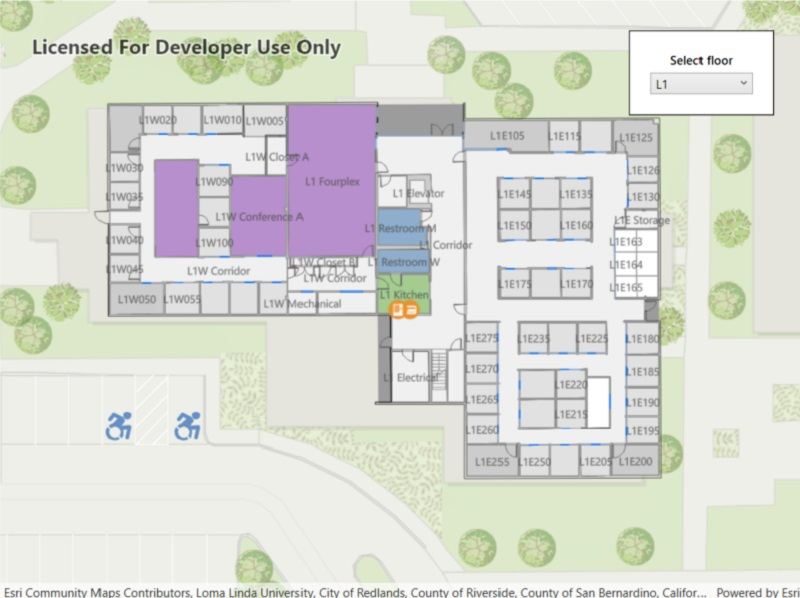
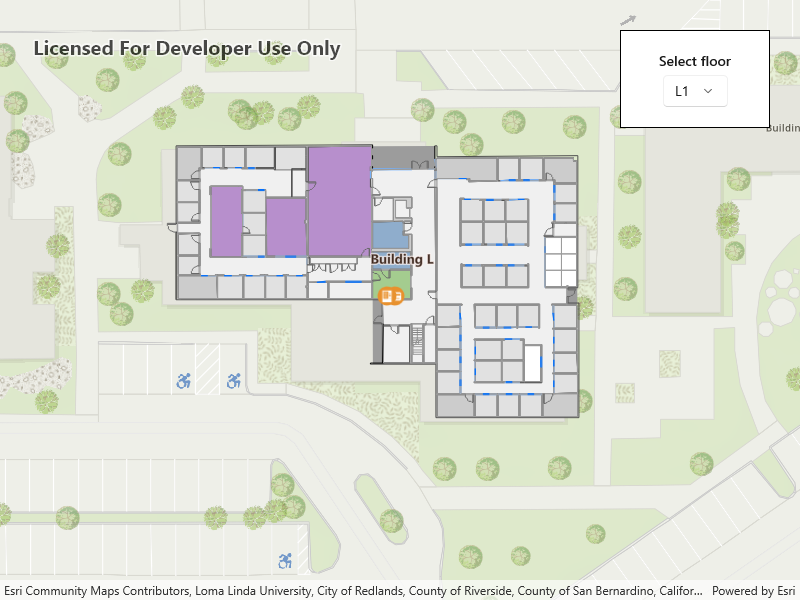
Fixed UI and updated the screenshot.

diff --git a/src/WinUI/ArcGISRuntime.WinUI.Viewer/Samples/Map/BrowseBuildingFloors/BrowseBuildingFloors.xaml b/src/WinUI/ArcGISRuntime.WinUI.Viewer/Samples/Map/BrowseBuildingFloors/BrowseBuildingFloors.xaml
@@ -5,7 +5,7 @@
              xmlns:esriUI="using:Esri.ArcGISRuntime.UI.Controls">
     <Grid>
         <esriUI:MapView x:Name="MyMapView" />
-        <Border Style="{StaticResource BorderStyle}">
+        <Border Width="150" Style="{StaticResource BorderStyle}">
             <StackPanel>
                 <TextBlock Margin="0,0,0,5"
                            HorizontalAlignment="Center"
@@ -13,6 +13,7 @@
                            Text="Select floor"
                            TextWrapping="Wrap" />
                 <ComboBox x:Name="FloorChooser"
+                          HorizontalAlignment="Center"
                           DisplayMemberPath="ShortName"
                           SelectionChanged="OnFloorChooserSelectionChanged" />
             </StackPanel>
